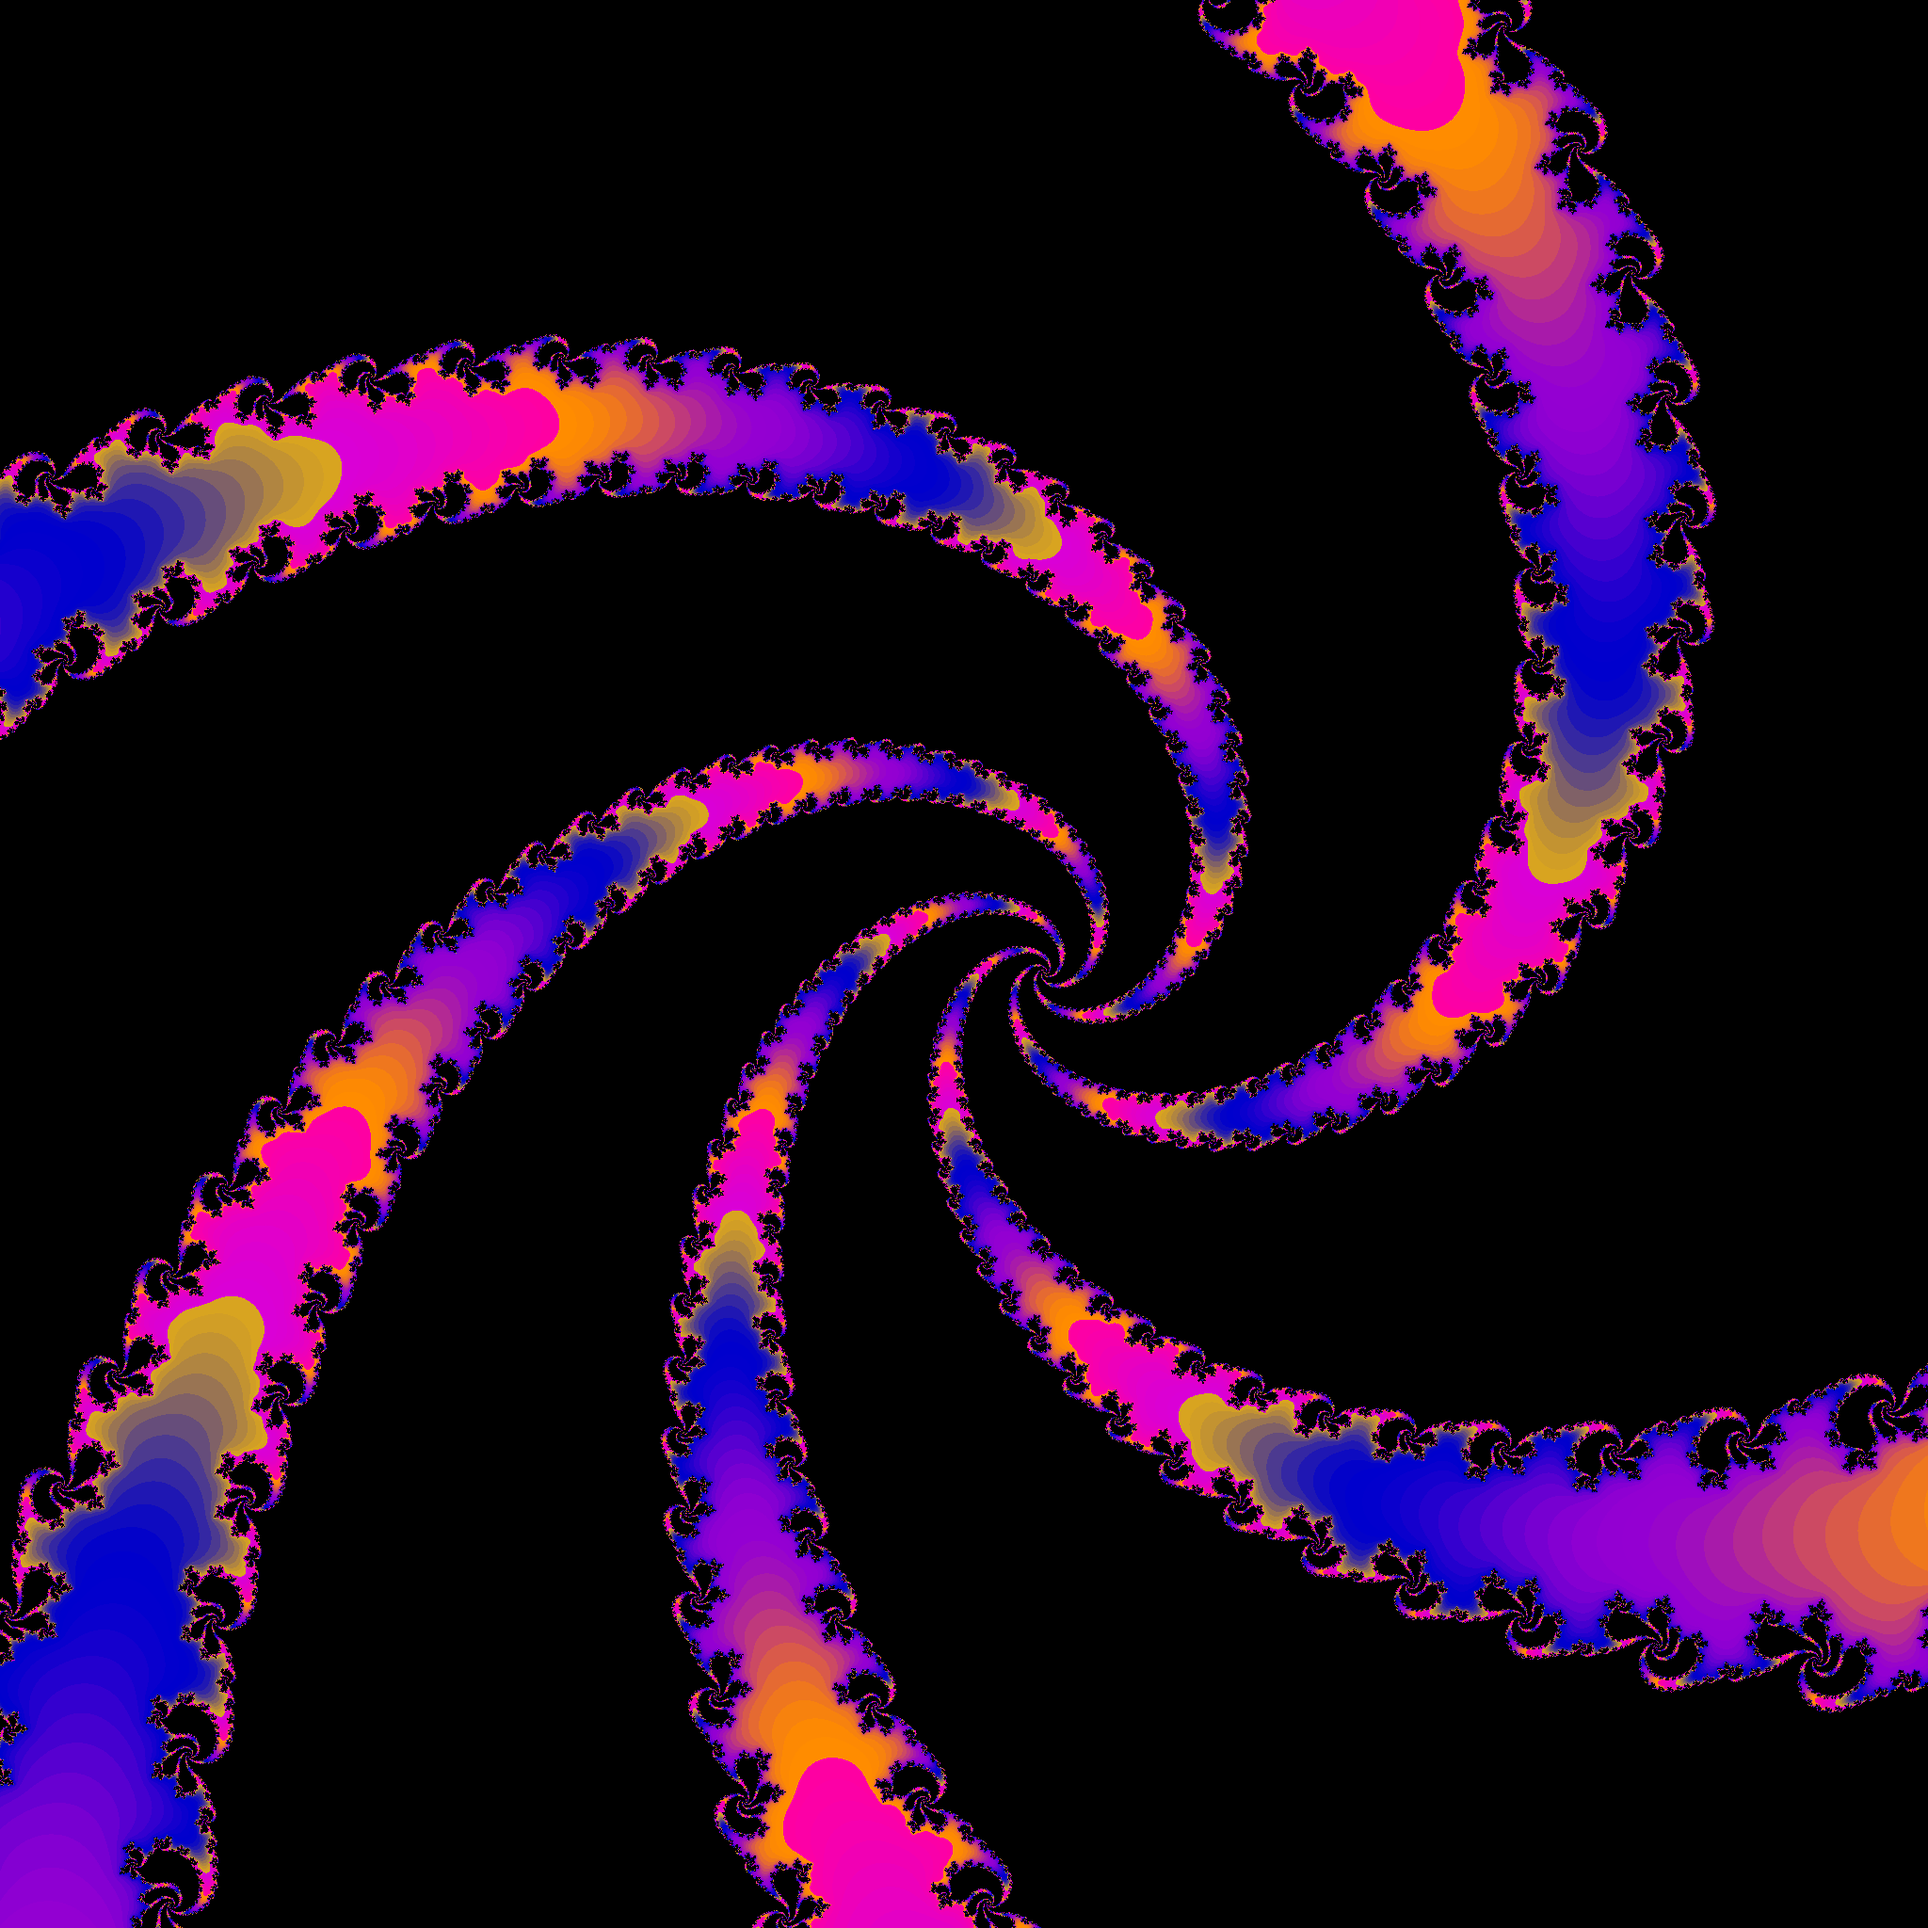
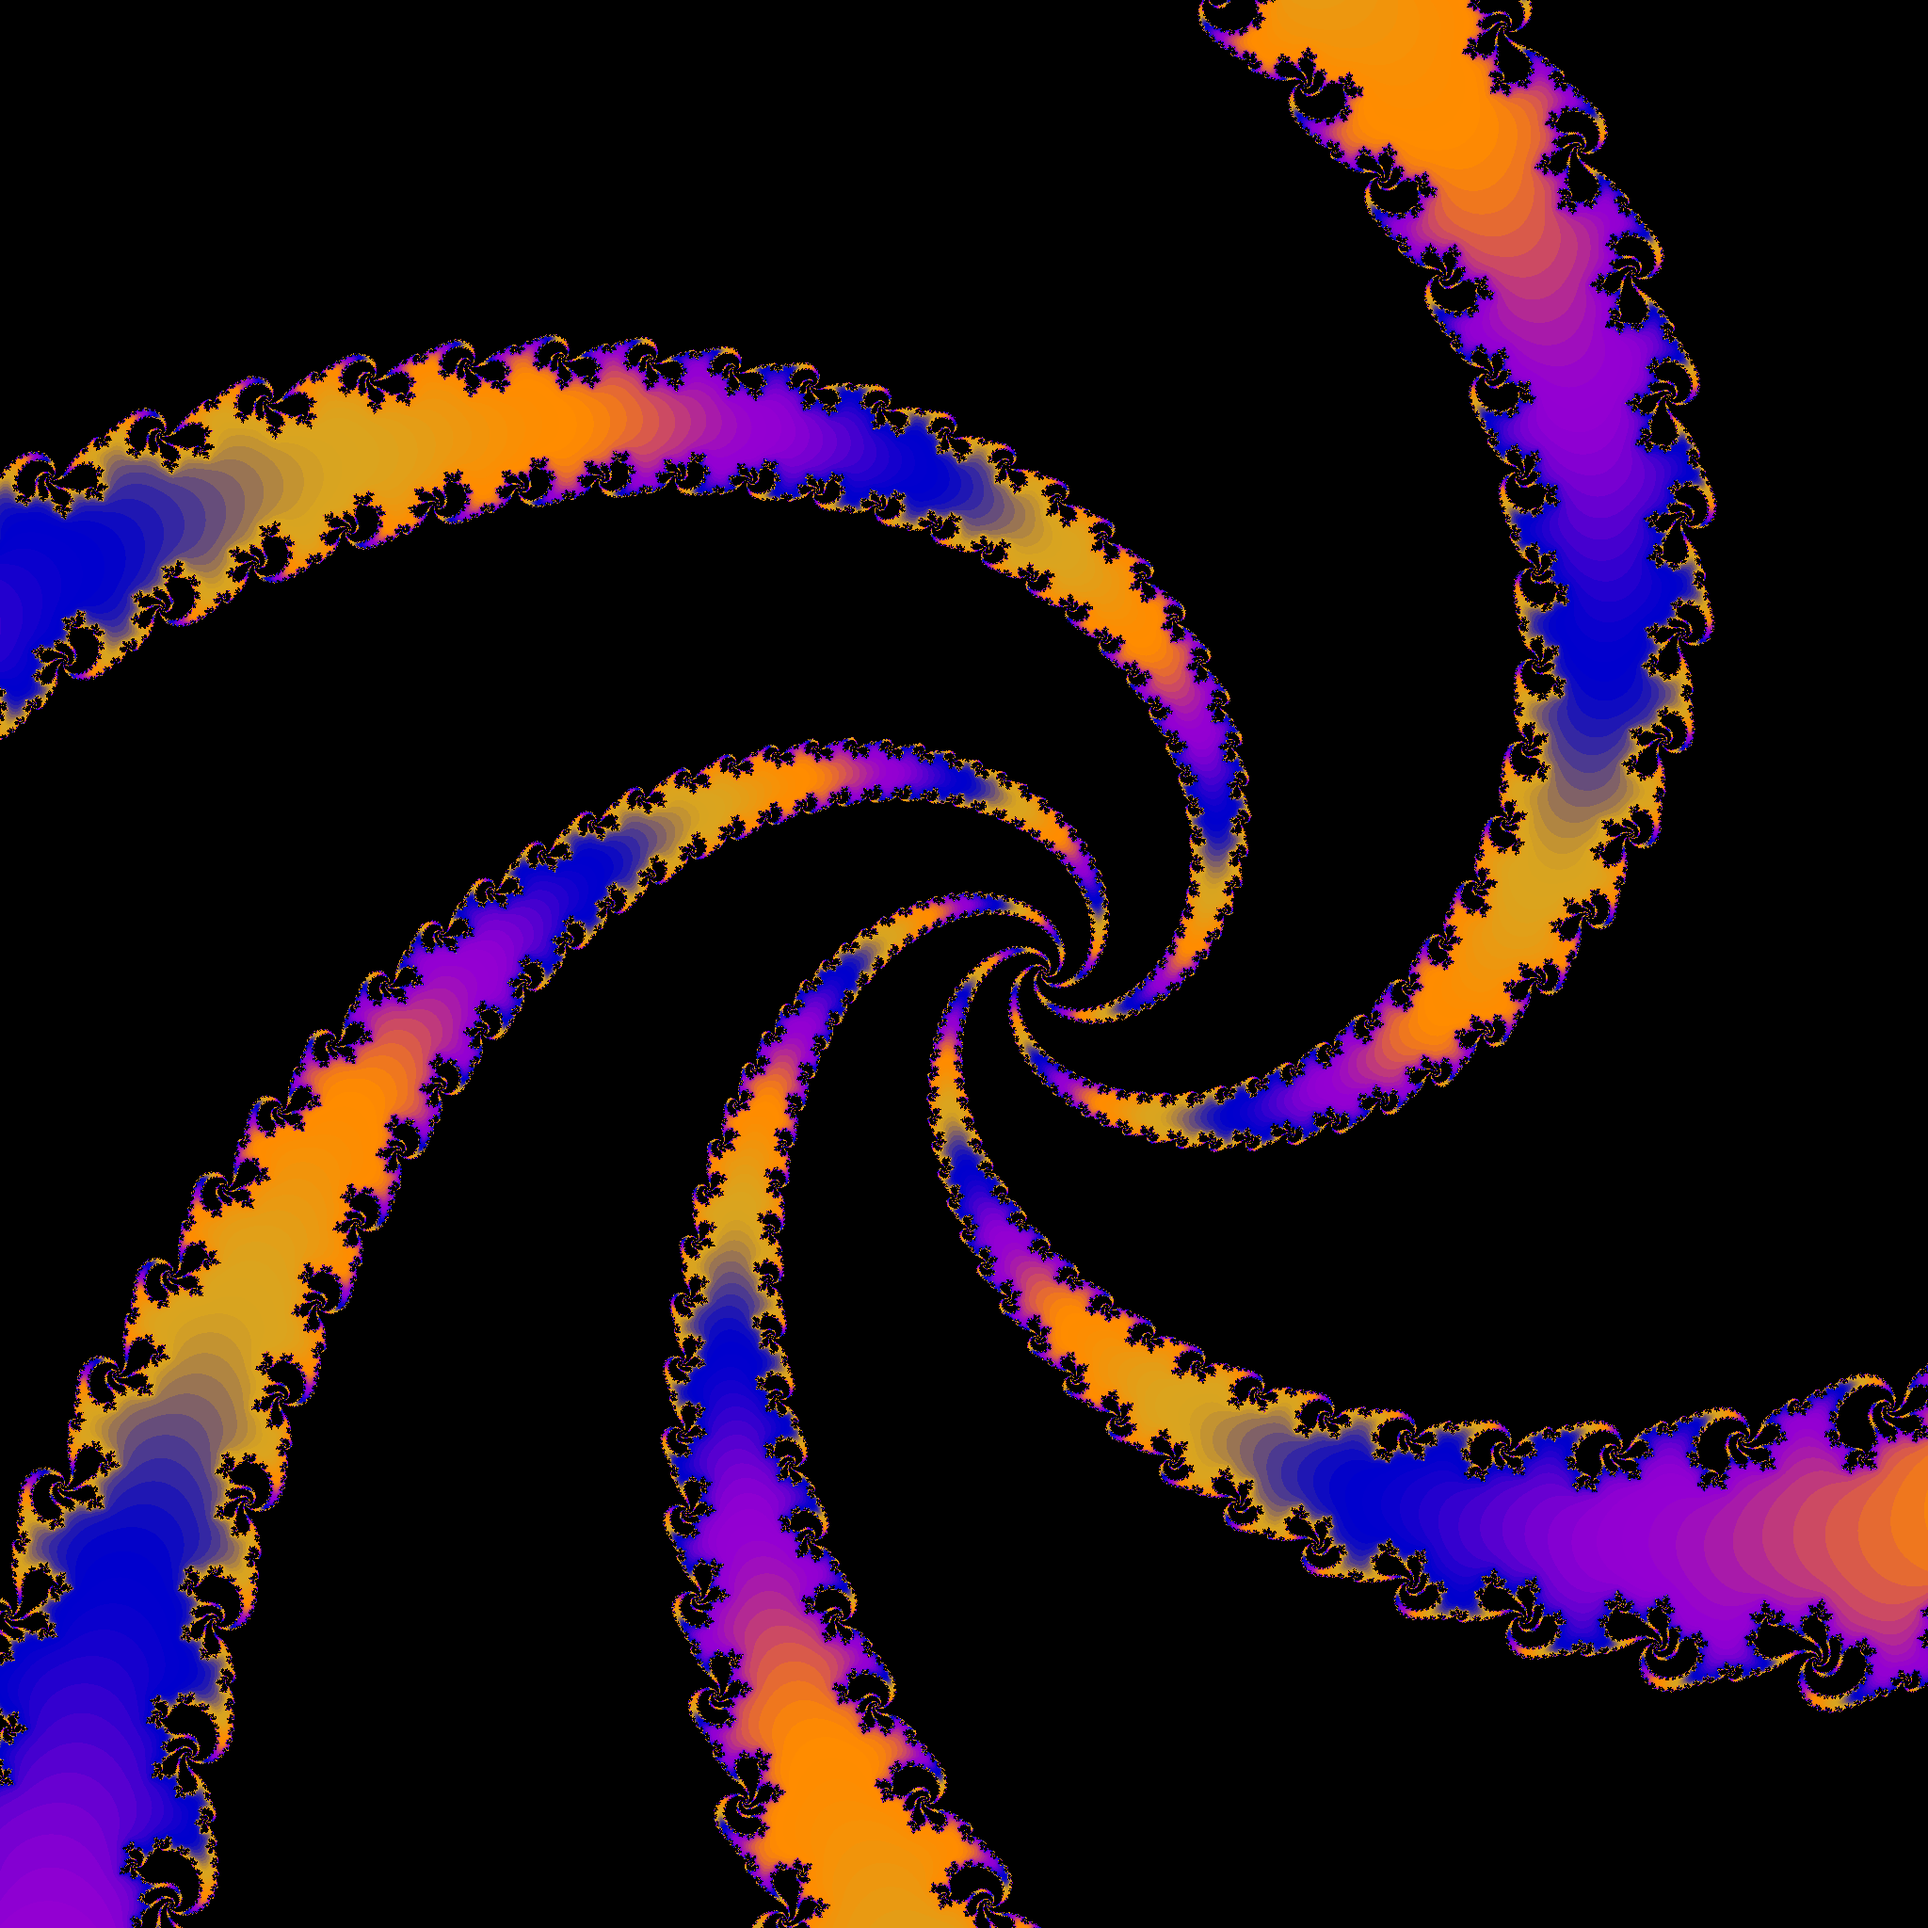
More work on README

diff --git a/palettes.py b/palettes.py
@@ -25,3 +25,18 @@ quazar = [
     0, 0, 205,
     218, 165, 32
 ]
+
+classic = [
+    14, 21, 101,
+    165, 212, 225,
+    244, 150, 6,
+    69, 27, 48
+]
+
+event_horizon = [
+    81, 81, 163,
+    117, 72, 94,
+    203, 144, 77,
+    223, 204, 116
+]
+

diff --git a/README.md b/README.md
@@ -2,17 +2,17 @@
 
 You may have seen images like this:
 
-TODO ADD IMAGE
+<img src="gallery/mandelbrot.png" alt="Final Result" height=800 width=800>
 
 Or this:
 
-TODO ADD IMAGE 
+<img src="gallery/julia_set.png" alt="Final Result" height=800 width=800>
 
 These are images of fractals on the complex plane, stunning images created purely through math. But how do we generate these images? And can we make them better? 
 
-In this repo I make a framework for quickly generating fractals utilizing the GPU. Then I use particle swarm optimization to find the 'coolest' fractals. There is still a lot of progress to be made, but here is the current peak of my findings.
+In this repo I make a framework for quickly generating fractals utilizing the GPU. Then I use particle swarm optimization to find the 'coolest' fractals. There is still a lot of progress to be made, but here is the current peak of my findings. For more images like this check out [the gallery](gallery). 
 
-<img src="gallery/final_result.png" alt="Final Result" height=800 width=800>
+<img src="gallery/best_so_far.png" alt="Final Result" height=800 width=800>
 
 
 
@@ -20,17 +20,16 @@ In this repo I make a framework for quickly generating fractals utilizing the GP
 
 ### The math behind the images
 
-While these images may look extremely complicated, they were all generated by relatively small polynomials. Each of these images shows a subset of the complex plane containing points that don't 'blow up' when a certain function is repeatedly applied. Lets dive into the most iconic example, the mandelbrot set. Take some complex number $c \in \mathbb{C}$, how can we determine if c is in the mandelbrot set? First, set $z=0$, then repeatedly apply the following transformation: $z = z^2+c$. If z stays small, no matter how many times the transformation is applied, then c is in hte mnadelbrot set. We generate the picture below by coloring all points in the mandelbrot set black and all points outside of the set white. For a more in-depth study of fractals (and some stunning images), check out (Junpei Sekino's fractal gallery)[https://www.sekinoworld.com/fractal/#fig3.3]
+While these images may look extremely complicated, they were all generated by relatively small polynomials. Each of these images shows a subset of the complex plane containing points that don't 'blow up' when a certain function is repeatedly applied. Lets dive into the most iconic example, the mandelbrot set. Take some complex number $c \in \mathbb{C}$, how can we determine if c is in the mandelbrot set? First, set $z=0$, then repeatedly apply the following transformation: $z = z^2+c$. If z stays small, no matter how many times the transformation is applied, then c is in the mandelbrot set. We generate the picture below by coloring all points in the mandelbrot set black and all points outside of the set white. For a more in-depth study of fractals (and some stunning images), check out (Junpei Sekino's fractal gallery)[https://www.sekinoworld.com/fractal/#fig3.3]
 
-TODO PUT MANDELBROT IMAGE
-
+<img src="images/bw_mandelbrot.png" alt="Final Result" height=800 width=800>
 
 
 ### Coloring
 
-We can spice up the image by coloring pixels outside of the set based on how quickly they blow up. When actually generating the fractal, you need to specify some *bailout radius* for the program. No computer program can definitively say whether or not $z$ will blow up (except for certain fractals). Instead, after each iteration it checks how far $z$ is from the origin, if it is farther away than the bailout radius then we can confidently say that $z$ will blow up. Based on the number of iterations it takes for $z$ to reach the bailout radius, we color the point. Generating good looking color gradients can be complicated, so the details of this are in COLORING.md.
+We can spice up the image by coloring pixels outside of the set based on how quickly they blow up. When actually generating the fractal, you need to specify some *bailout radius* for the program. No computer program can definitively say whether or not $z$ will blow up (except in special cases). Instead, after each iteration it checks how far $z$ is from the origin, if it is farther away than the bailout radius then we can confidently say that $z$ will blow up. Based on the number of iterations it takes for $z$ to reach the bailout radius, we color the point. In the picture below we color all points outside the set with a simple blue to white gradient. Generating good looking color gradients can be complicated, so the details of this are in [COLORING.md](COLORING.md).
 
-TODO PUT COLORED MANDELBROT IMAGE
+<img src="images/colored_mandelbrot.png" alt="Final Result" height=800 width=800>
 
 
 ### New fractals
@@ -80,7 +79,7 @@ The z conjugates also made the resulting fractal more complicated, I am pretty s
 <img src="images/mask_report_graphs/first_16_report.png" height=400 width=400>
 <img src="gallery/best_first_16.png" height=400 width=400>
 
-We can also only use real parameters without conjugates. This lowered the results again, and made an interesting fractal.
+We can also only use real parameters without conjugates. This lowered the results again, and made a very interesting fractal. It has these 'pseudo-bulbs' that are shaped like the usual bulbs found in fractals, but are made up of many small filaments.
 
 <img src="images/mask_report_graphs/real_below_16_report.png" height=400 width=400>
 <img src="gallery/best_first_16_real.png" height=400 width=400>
@@ -104,6 +103,5 @@ When generating fractals, we choose a number of iterations to run before we deci
 
 ## Running this project
 
-
-TODO FIND HOW TO INSTALL OPENCL AGAIN, TRY TO GET THIS TO WORK ON ETHANS COMPUTER.
+Will write later.
 
